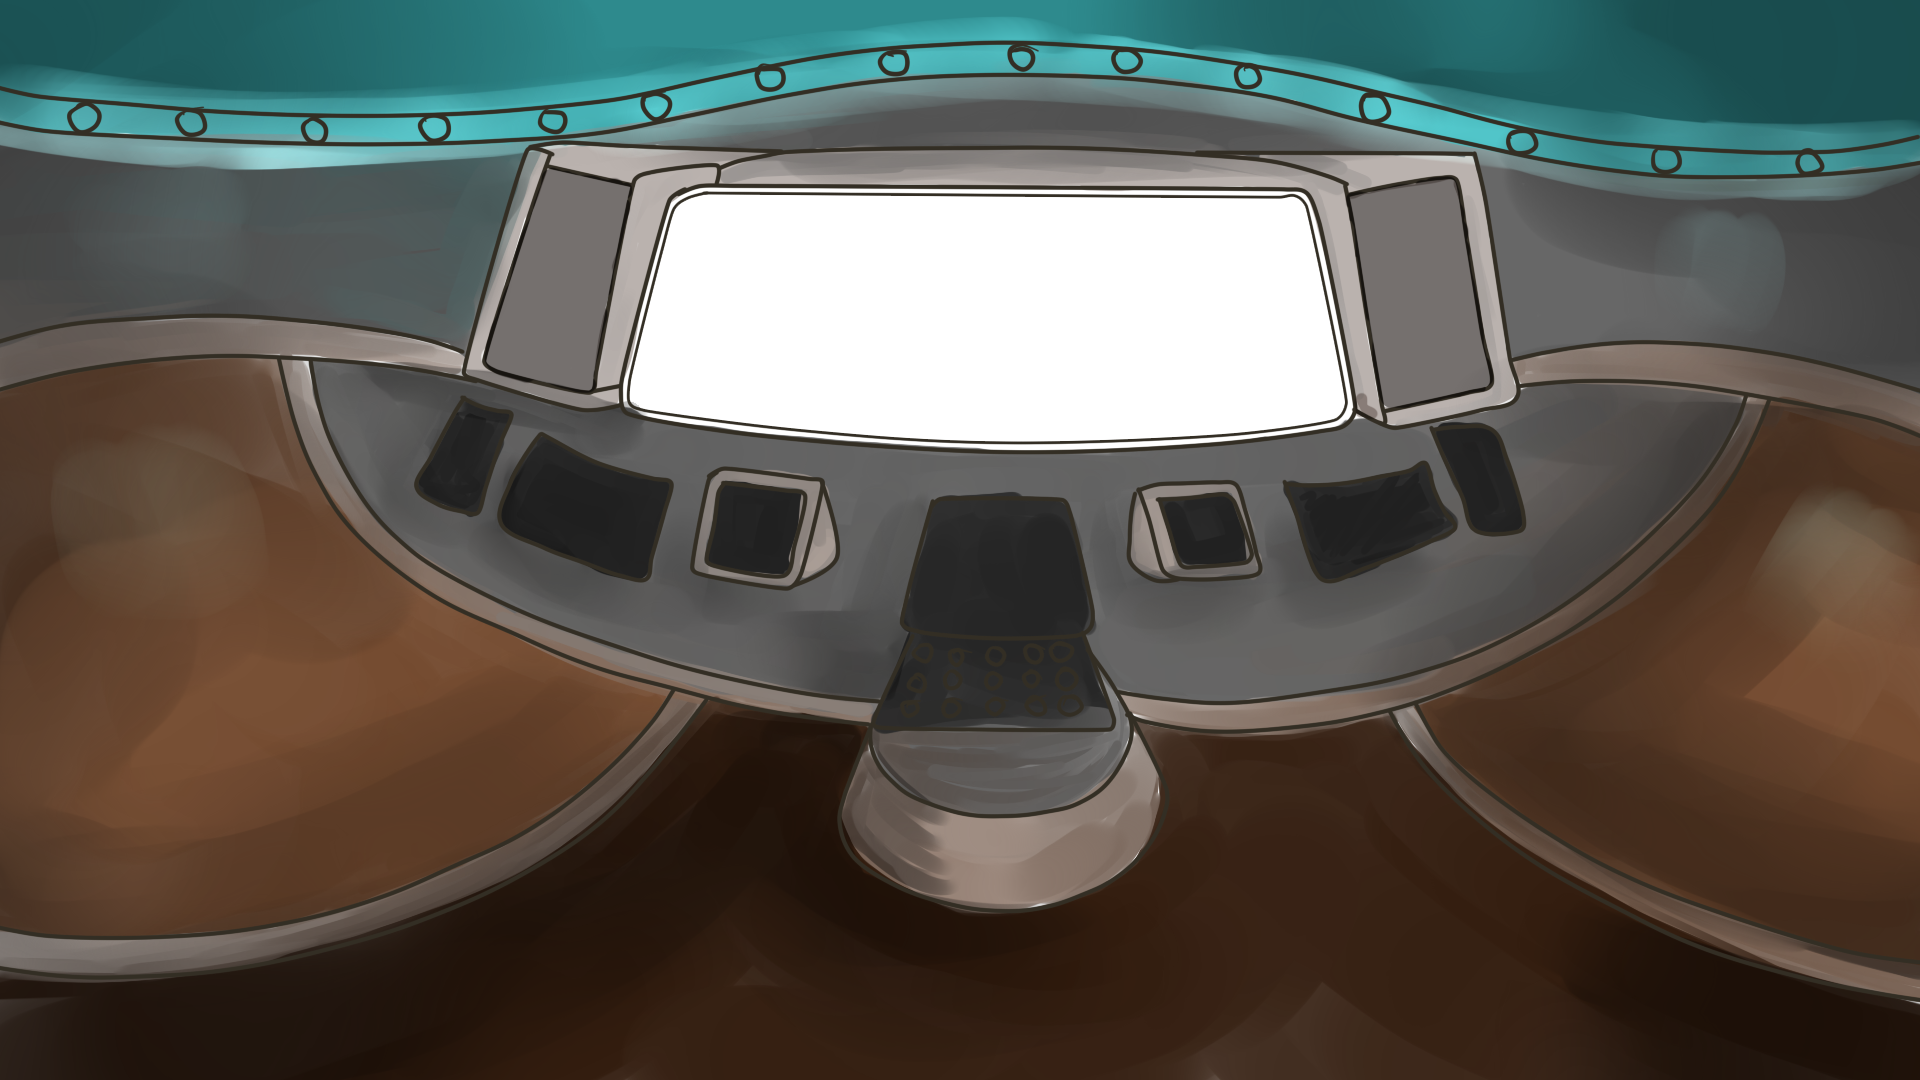
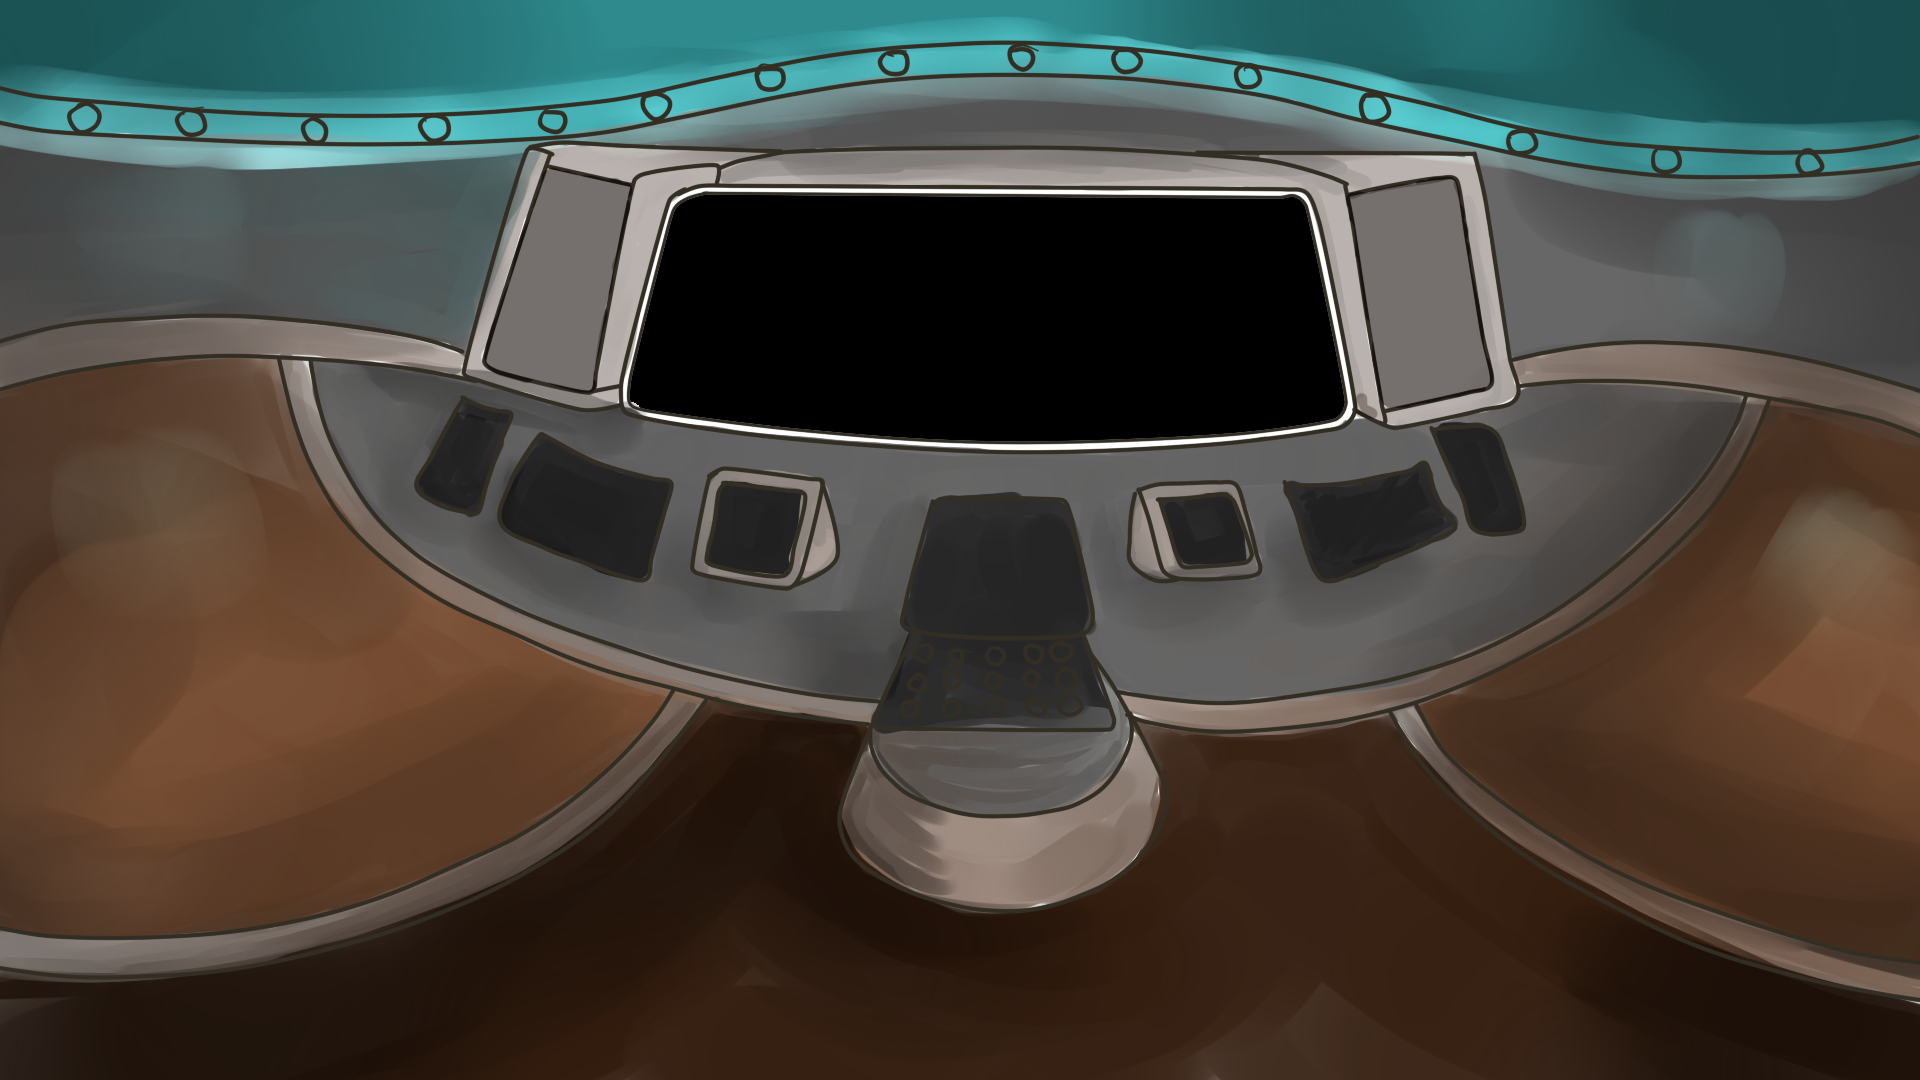
Change Backgound of Secret Room

Changed region(s): [[0.3125, 0.1528, 0.7188, 0.4278]]

diff --git a/Assets/SecretRoomController.cs b/Assets/SecretRoomController.cs
@@ -1,0 +1,72 @@
+using UnityEngine;
+using System.Collections;
+using Leap;
+
+public class SecretRoomController : MonoBehaviour {
+
+	public HandController handController;
+	public GameObject monitor;
+	public GameObject monitorCenter;
+	public Vector3 cameraOriginalPosition;
+	public Vector3 cameraApplePosition;
+	public float moveInterval = 0.03f;
+	public float speed = 10.0f;
+	private bool grabSuccessful = false;
+	private bool startToMove = false;
+	// Use this for initialization
+	void Start () {
+		monitor.renderer.enabled = false;
+		Camera.main.transform.position = cameraOriginalPosition;
+		StartCoroutine("flashLightSlow");
+	}
+
+	IEnumerator flashLightSlow(){
+		while(true){
+			monitor.renderer.enabled = false;
+			yield return new WaitForSeconds(0.5f);
+			monitor.renderer.enabled = true;
+			yield return new WaitForSeconds(0.5f);
+		}
+	}
+
+	IEnumerator flashLightFast(){
+		while(true){
+			monitor.renderer.enabled = false;
+			yield return new WaitForSeconds(0.5f);
+			monitor.renderer.enabled = true;
+			yield return new WaitForSeconds(0.2f);
+		}
+	}
+
+	IEnumerator moveCamera(){
+		Camera camera = Camera.main;
+		yield return new WaitForSeconds(2.0f);
+		startToMove = true;
+		while(Vector3.Distance(camera.transform.position, cameraApplePosition) > 0.1f){
+			Vector3 direction = cameraApplePosition - camera.transform.position;
+			
+			direction.Normalize();
+			camera.transform.Translate( direction * speed * Time.deltaTime, Space.World);
+			yield return new WaitForSeconds(moveInterval);
+		}
+		StopCoroutine("flashLightFast");
+		Debug.Log("Play Movie");
+		//startToPlay = true;
+	}
+	
+	// Update is called once per frame
+	void Update () {
+		
+		if(!startToMove || handController == null)
+			return;
+		Vector handPosition = handController.GetComponent<HandController>().getFirstHandPosition();
+		handPosition *= 0.001f;
+		if( (Mathf.Abs(handPosition.x - monitorCenter.transform.position.x) < 2.3f
+			|| Mathf.Abs(handPosition.y - monitorCenter.transform.position.y) < 1.0f)
+		 	&& !startToMove){
+			StopCoroutine("flashLightSlow");
+			StartCoroutine("flashLightFast");
+			StartCoroutine(moveCamera());
+		}
+	}
+}
